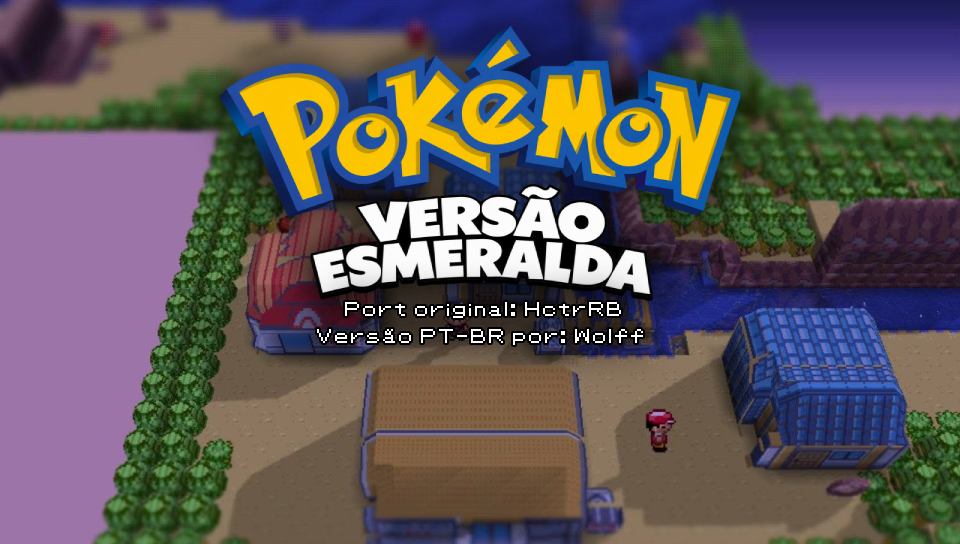
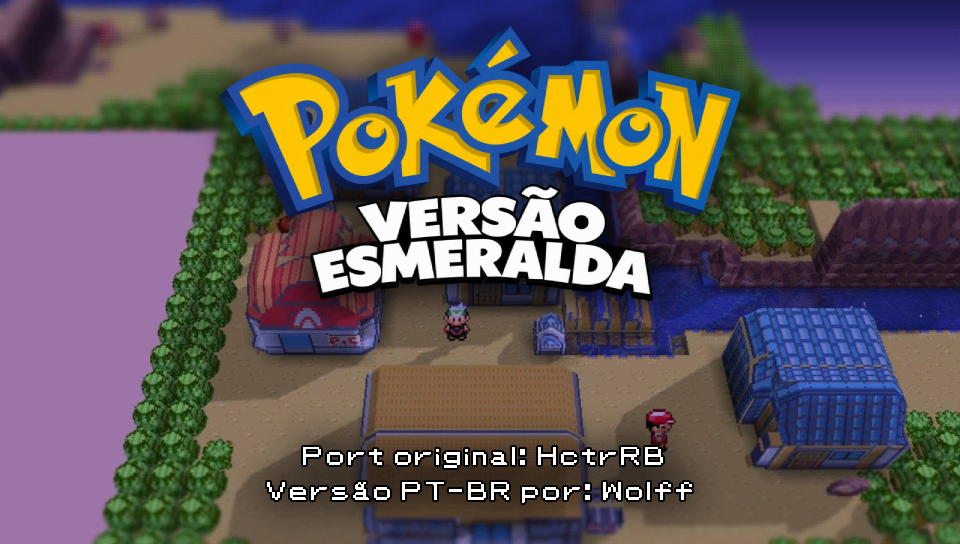
docs(posts): refresh Emerald cover, screenshots and download link

Changed region(s): [[0.25, 0.7812, 0.7188, 0.9688], [0.3125, 0.5, 0.6875, 0.6562]]

diff --git a/content/posts/pokemon-emerald/post.md b/content/posts/pokemon-emerald/post.md
@@ -16,6 +16,10 @@ capturas:
   - captura-2.png
   - captura-3.png
   - captura-4.png
+  - captura-5.png
+  - captura-6.png
+  - captura-7.png
+  - captura-8.png
 ficha:
   Port original: HctrRB
   Versão Wolff's Room: PT-BR · LiveArea · Manual
@@ -23,13 +27,11 @@ ficha:
   Tecnologia: Código nativo ARM · vitaGL
 links:
   Download VPK: https://github.com/WolffsRoom/WolffsRoomSite/releases/download/pokemon-emerald-ptbr-v1.0/Pokemon-Emerald-PTBR-WolffsRoom.vpk
-  Download alternativo (Google Drive): https://drive.google.com/file/d/1osfuveVOTxpDmcsjFx-TibU9f-phOxTh/view?usp=sharing
+  Download alternativo (Google Drive): https://drive.google.com/file/d/1prXPQgulczBJYybvY5nbaaWHtEIMPe7-/view?usp=sharing
 fontes:
   Código-fonte do port (HctrRB): https://github.com/HctrRB/pokeemerald-vita-3ds
   Pull request PT-BR: https://github.com/HctrRB/pokeemerald-vita-3ds/pull/3
   Tradução original (Pokebat): https://pokebat.net/2017/04/pokemon-emerald-portugues-pt-brgba.html
-  Base do jogo (pret/pokeemerald): https://github.com/pret/pokeemerald
-  Emerald 3DS: https://github.com/ZallaxDev/emerald-3ds
 downloads:
   - tipo: vpk
     nome: Pokémon Emerald — PT-BR (Wolff's Room)
@@ -40,7 +42,7 @@ downloads:
     precisa_dados: false
   - tipo: vpk
     nome: Download alternativo (Google Drive)
-    url: https://drive.google.com/file/d/1osfuveVOTxpDmcsjFx-TibU9f-phOxTh/view?usp=sharing
+    url: https://drive.google.com/file/d/1prXPQgulczBJYybvY5nbaaWHtEIMPe7-/view?usp=sharing
     versao: "1.0"
 ---
 **Pokémon Emerald** recebeu um port nativo não oficial para PS Vita, desenvolvido por **HctrRB** a partir da [descompilação pret/pokeemerald](https://github.com/pret/pokeemerald). Não é um emulador: o código C do jogo é compilado para o processador ARM do Vita, com uma camada de plataforma que substitui as funções do hardware do GBA.

diff --git a/content/posts/pokemon-emerald/post.en.md b/content/posts/pokemon-emerald/post.en.md
@@ -11,13 +11,11 @@ ficha:
   Technology: Native ARM code · vitaGL
 links:
   Download VPK: https://github.com/WolffsRoom/WolffsRoomSite/releases/download/pokemon-emerald-ptbr-v1.0/Pokemon-Emerald-PTBR-WolffsRoom.vpk
-  Alternative download (Google Drive): https://drive.google.com/file/d/1osfuveVOTxpDmcsjFx-TibU9f-phOxTh/view?usp=sharing
+  Alternative download (Google Drive): https://drive.google.com/file/d/1prXPQgulczBJYybvY5nbaaWHtEIMPe7-/view?usp=sharing
 fontes:
   Original port source (HctrRB): https://github.com/HctrRB/pokeemerald-vita-3ds
   PT-BR pull request: https://github.com/HctrRB/pokeemerald-vita-3ds/pull/3
   Original translation (Pokebat): https://pokebat.net/2017/04/pokemon-emerald-portugues-pt-brgba.html
-  Game decompilation (pret/pokeemerald): https://github.com/pret/pokeemerald
-  Emerald 3DS: https://github.com/ZallaxDev/emerald-3ds
 ---
 **Pokémon Emerald** has an unofficial native PS Vita port developed by **HctrRB**, based on the [pret/pokeemerald](https://github.com/pret/pokeemerald) decompilation. It is not an emulator: the game's C code is compiled for Vita ARM, while a platform layer replaces GBA hardware functions.
 
